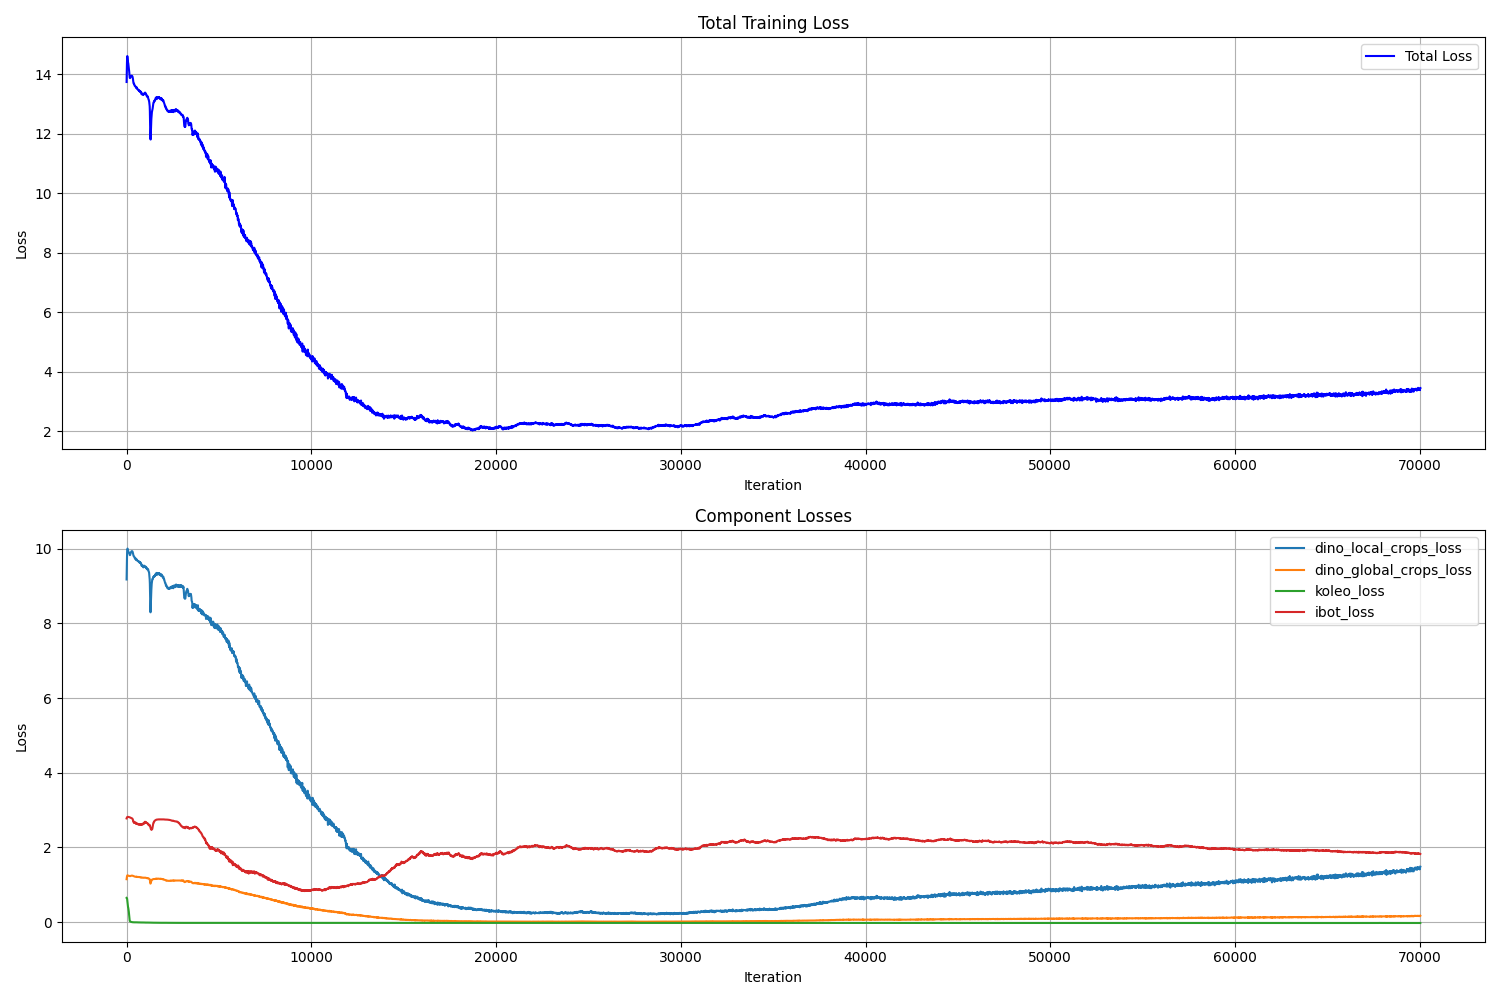
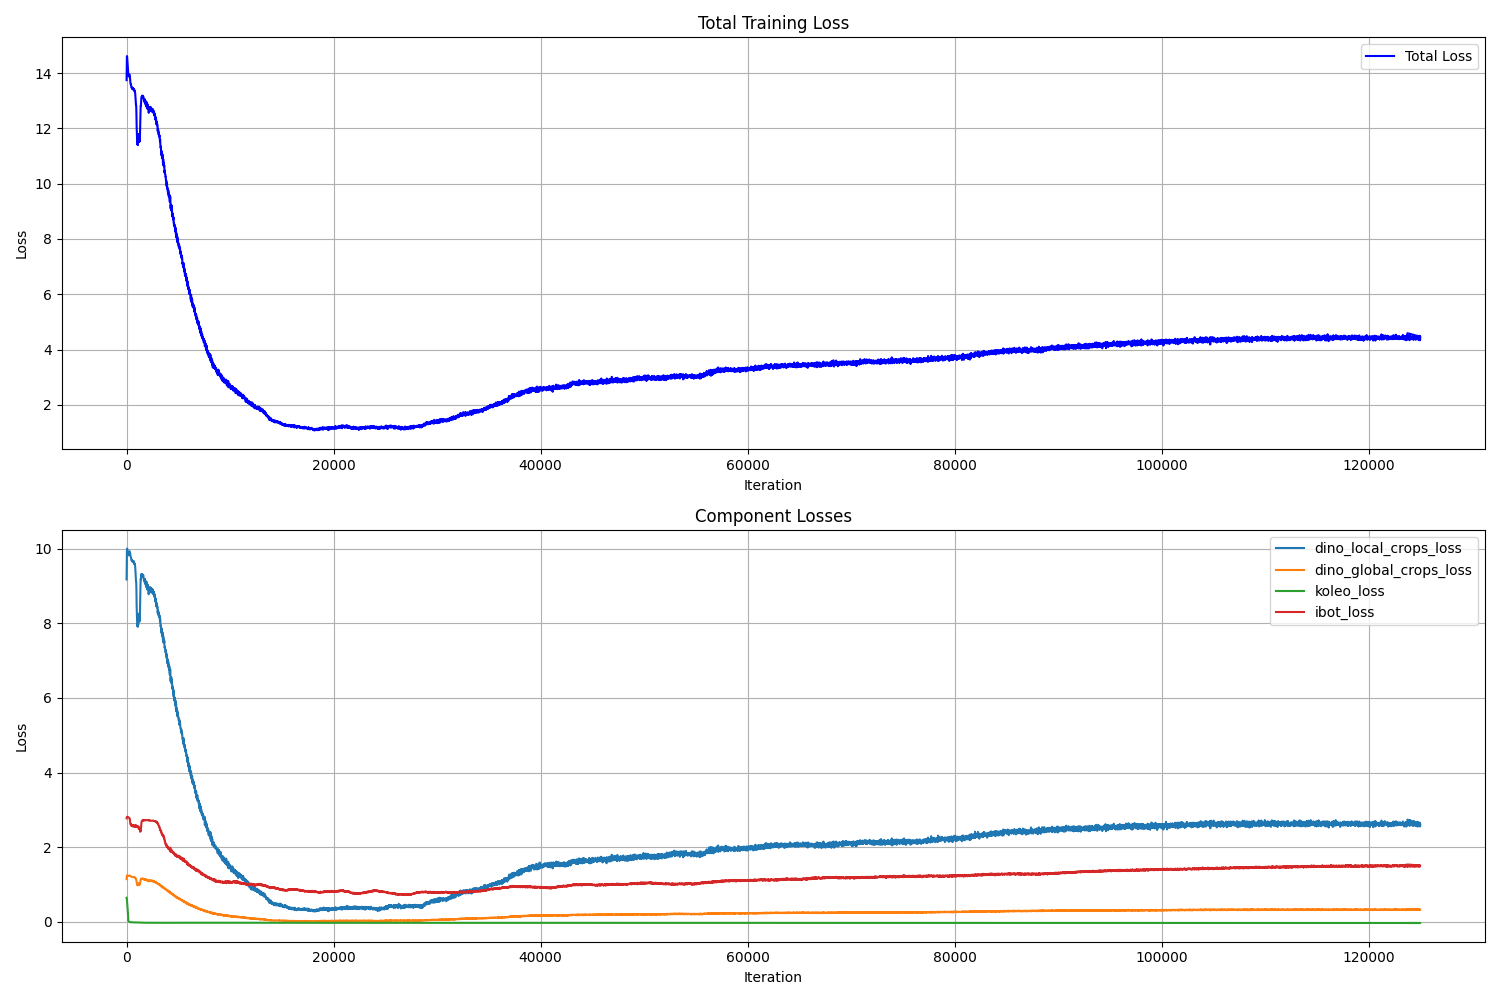
updated dataset

diff --git a/dinov2/dinov2/data/datasets/medical_dataset.py b/dinov2/dinov2/data/datasets/medical_dataset.py
@@ -20,9 +20,20 @@ class UnlabeledMedicalImageDataset(ExtendedVisionDataset):
         self.samples = []
         for dirpath, _, filenames in os.walk(self.root):
             for file in filenames:
-                if file.lower().endswith(('.dcm', '.dicom', '.nii', '.nii.gz')):
-                    full_path = os.path.join(dirpath, file)
-                    self.samples.append(full_path)
+                full_path = os.path.join(dirpath, file)
+                if file.lower().endswith(('.dcm', '.dicom')):
+                    # For DICOM files, append as is
+                    self.samples.append((full_path, None))
+                elif file.lower().endswith(('.nii', '.nii.gz')):
+                    # For NIfTI files, append each slice as a separate sample
+                    nii_data = nib.load(full_path)
+                    shape = nii_data.shape  # Get the shape without loading the entire data
+                    slicing_axis = 2  # Choose the axis along which to slice (usually the axial axis)
+                    num_slices = shape[slicing_axis]
+                    for slice_index in range(num_slices):
+                        self.samples.append((full_path, slice_index))
+                else:
+                    continue
 
         if len(self.samples) == 0:
             raise ValueError(f"No DICOM or NIfTI files found in {root}")
@@ -37,7 +48,7 @@ class UnlabeledMedicalImageDataset(ExtendedVisionDataset):
             image = ImageDataDecoder(image_data).decode()
         except Exception as e:
             raise RuntimeError(f"Cannot read image for sample {index}") from e
-        
+
         # Get target and decode it
         target = self.get_target(index)
         target = TargetDecoder(target).decode()
@@ -49,7 +60,7 @@ class UnlabeledMedicalImageDataset(ExtendedVisionDataset):
         return image, target
 
     def get_image_data(self, idx):
-        file_path = self.samples[idx]
+        file_path, slice_index = self.samples[idx]
 
         # Load the image and preprocess
         if file_path.lower().endswith(('.dcm', '.dicom')):
@@ -57,7 +68,14 @@ class UnlabeledMedicalImageDataset(ExtendedVisionDataset):
             image = dicom_data.pixel_array
         elif file_path.lower().endswith(('.nii', '.nii.gz')):
             nii_data = nib.load(file_path)
-            image = nii_data.get_fdata()
+            # Read only the required slice
+            slicing_axis = 2  # Same as in __init__
+            # Build slicing object to get only the desired slice
+            slice_obj = [slice(None)] * 3  # Assuming data is 3D
+            slice_obj[slicing_axis] = slice(slice_index, slice_index + 1)
+            image_slice = nii_data.dataobj[tuple(slice_obj)]
+            image_slice = np.squeeze(image_slice)  # Remove the singleton dimension
+            image = image_slice
         else:
             raise ValueError(f'Unsupported file type: {file_path}')
 
@@ -84,7 +102,7 @@ class UnlabeledMedicalImageDataset(ExtendedVisionDataset):
         return image_bytes
 
     def get_target(self, idx):
-        file_path = self.samples[idx]
+        file_path, slice_index = self.samples[idx]
 
         if file_path.lower().endswith(('.dcm', '.dicom')):
             dicom_data = pydicom.dcmread(file_path)
@@ -110,6 +128,7 @@ class UnlabeledMedicalImageDataset(ExtendedVisionDataset):
         if image.ndim == 2:
             image = np.expand_dims(image, axis=0)  # [C, H, W]
         elif image.ndim == 3:
+            # If the image is still 3D after slicing, select the middle slice
             slice_dim = np.argmin(image.shape)
             if slice_dim != 0:
                 image = np.moveaxis(image, slice_dim, 0)

diff --git a/dinov2/dinov2/run/submit.py b/dinov2/dinov2/run/submit.py
@@ -51,7 +51,7 @@ def get_args_parser(
     parser.add_argument(
         "-p",
         "--partition",
-        default="a100_short", # default="a100_short,gpu4_short,gpu4_medium,a100_dev,a100_long,gpu8_short,gpu8_medium"
+        default="a100_long,a100_short", # default="a100_short,gpu4_short,gpu4_medium,a100_dev,a100_long,gpu8_short,gpu8_medium"
         type=str,
         help="Partition where to submit",
     )
@@ -74,7 +74,9 @@ def get_shared_folder() -> Path:
     user_checkpoint_path = get_user_checkpoint_path()
     if user_checkpoint_path is None:
         raise RuntimeError("Path to user checkpoint cannot be determined")
-    path = Path("/gpfs/data/mankowskilab/HCC/models")
+    #path = Path("/gpfs/data/mankowskilab/HCC/models")
+    
+    path = Path("/gpfs/data/shenlab/wz1492/HCC/dinov2/experiments")
     path.mkdir(exist_ok=True)
     return path
 

diff --git a/dinov2/dinov2/run/train/train.py b/dinov2/dinov2/run/train/train.py
@@ -10,6 +10,10 @@ import sys
 from dinov2.logging import setup_logging
 from dinov2.train import get_args_parser as get_train_args_parser
 from dinov2.run.submit import get_args_parser, submit_jobs
+import torch
+torch.cuda.empty_cache()
+os.environ["PYTORCH_CUDA_ALLOC_CONF"] = "max_split_size_mb:128"
+
 
 
 logger = logging.getLogger("dinov2")
@@ -51,7 +55,7 @@ def main():
     setup_logging()
 
     assert os.path.exists(args.config_file), "Configuration file does not exist!"
-    submit_jobs(Trainer, args, name="dinov2:train")
+    submit_jobs(Trainer, args, name="dinov2:ssl")
     return 0
 
 

diff --git a/readme.md b/readme.md
@@ -1,5 +1,5 @@
 # HCC
 
 ```
-python dinov2/run/train/train.py     --nodes 1     --config-file dinov2/configs/train/vitl16_short.yaml     train.dataset_path=UnlabeledMedicalImageDataset:root=/gpfs/data/mankowskilab/HCC/data/images     output_dir=/gpfs/data/shenlab/wz1492/HCC/dinov2/experiments
+python dinov2/run/train/train.py     --nodes 1     --config-file dinov2/configs/train/vitl16_short.yaml     train.dataset_path=UnlabeledMedicalImageDataset:root=/gpfs/data/mankowskilab/HCC/data/images     output_dir=/gpfs/data/shenlab/wz1492/HCC/dinov2/experiments2
 ```
